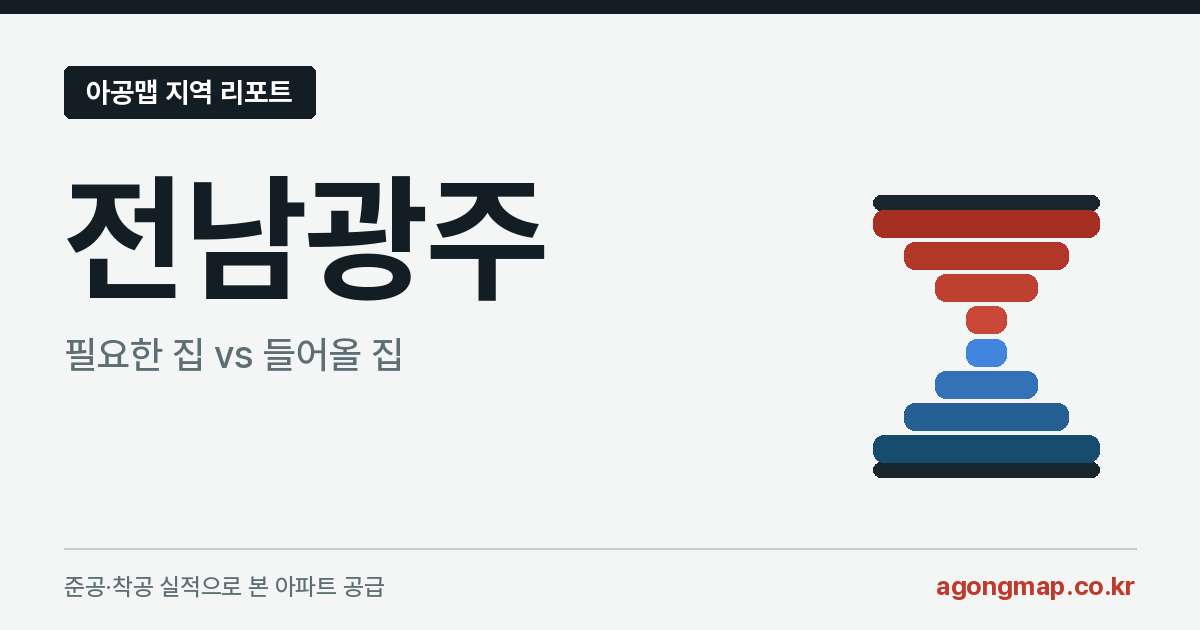
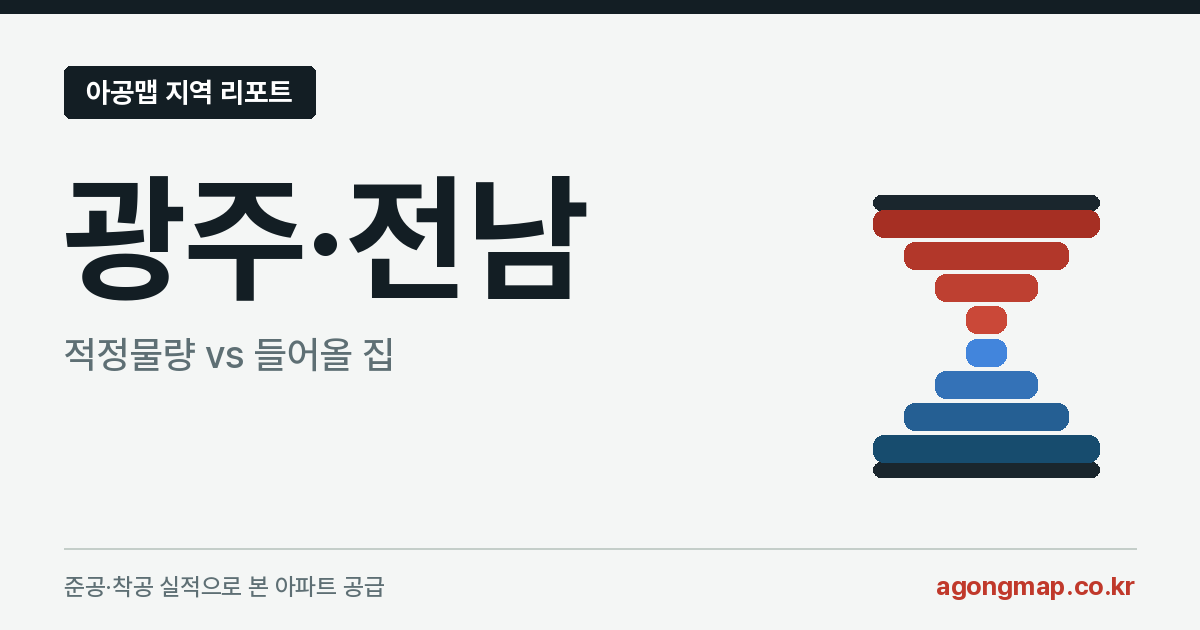
지역 공유 카드가 키 '전남광주'와 옛 이름 '필요한 집'을 그리던 것 — 그리는 이름은 SZ.disp, 부제는 '적정물량', 19장 다시 굽고 og:image 에 카드 판(?v=) (전수리뷰 Z1-5·P-2)
make_zone_cards 가 zone/ 디렉터리 이름(키)을 그대로 그려 /zone/전남광주/ 미리보기가 제목과 다른 '전남광주' 카드였고, 19장 공통 부제가
10-06 에 버린 '필요한 집 vs 들어올 집'이었다. 그리는 이름만 label()=SZ.disp 로 바꾸고 파일 이름(zone-<키>.png)은 그대로 둔다.
부제는 '적정물량 vs 들어올 집'. 그린 이름·부제를 PNG 글 칸(label·sub)에 실어 시험이 커밋된 카드를 도구와 대조한다.
리포트 og:image 는 카드 내용 해시를 ?v= 로 붙여, 카카오톡·네이버가 주소 단위로 보관한 옛 미리보기를 새 카드로 바꾼다.
부제가 모든 카드에 있어 19장 모두 다시 구웠다(같은 도구로 두 번 구우면 바이트가 같다 — 결정론 확인). HEAD 도구로도 08-08 의 18장은
픽셀이 조금 달랐고(옛 렌더러) 09-23 의 전남광주 한 장만 바이트가 같았다.

변이 확인:
- make() 가 label(name) 대신 키를 그리면 test_card_draws_the_display_name_and_the_canon_subtitle 이 빨개진다.
- SUB 를 옛 '필요한 집 vs 들어올 집'으로 되돌리면 그 시험·test_committed_cards_match_the_tool·test_generators_write_the_canon_terms 가 빨개진다.
- 옛 share/zone-전남광주.png(글 칸 없음)를 되돌려 놓으면 test_committed_cards_match_the_tool 이 빨개진다.
- zone_card 가 ?v= 를 빼면 test_report_og_image_carries_the_card_version 이 빨개진다.

Claude-Session: https://claude.ai/code/session_01Cnk2ohfzHBhdN4H67VPrTj

Changed region(s): [[0.0617, 0.2714, 0.4933, 0.4825], [0.0308, 0.5127, 0.3392, 0.6032]]

diff --git a/tools/tests/test_zone_cards.py b/tools/tests/test_zone_cards.py
@@ -1,0 +1,77 @@
+# -*- coding: utf-8 -*-
+"""지역 공유 카드(share/zone-<키>.png, make_zone_cards — 사람이 돌리는 도구)는 화면 이름 정본과 정본 용어를 그린다(전수리뷰 Z1-5·P-2).
+
+재현한 실제 상태(2026-10-18): 도구가 zone/ 디렉터리 이름(판정 단위 키)을 그대로 그려, /zone/전남광주/ 의 공유 미리보기(og:image)가
+제목('광주·전남')과 다른 '전남광주' 카드였다. 19장 공통 부제는 10-06 에 버린 이름 '필요한 집 vs 들어올 집'이었다. 도구를 다시 돌려도 같은
+카드가 나왔고, test_display_name 은 HTML 글자만 보아 그림을 잡지 못했다. og:image 주소에 판(?v=)이 없어 다시 구운 카드도 카카오톡·
+네이버가 보관한 옛 미리보기에 닿지 않았다.
+"""
+import hashlib
+import io
+import glob
+import os
+import re
+import sys
+import urllib.parse
+
+from PIL import Image, ImageDraw
+
+sys.path.insert(0, os.path.join(os.path.dirname(os.path.abspath(__file__)), '..'))
+import make_sido_pages as P  # noqa: E402
+import make_zone_cards as ZC  # noqa: E402
+import sido_zones as SZ  # noqa: E402
+
+ROOT = os.path.normpath(os.path.join(os.path.dirname(os.path.abspath(__file__)), '..', '..'))
+
+
+def test_card_draws_the_display_name_and_the_canon_subtitle(tmp_path, monkeypatch):
+    """도구가 그리는 글자: 큰 이름은 SZ.disp(키), 부제는 정본 용어('적정물량'). 파일 이름은 키 그대로(og:image 가 키로 찾는다).
+    변이(실제로 확인): make() 가 label(name) 대신 name(키)을 그리게 되돌리면, SUB 를 옛 '필요한 집 vs 들어올 집'으로 되돌리면 빨개진다.
+    픽스처: DISPLAY_NAME 의 키마다(지금 '전남광주') 임시 폴더에 한 장씩 굽고 ImageDraw.text 를 가로채 그린 글자를 모은다. 이름이 키와
+    같은 지역(서울)도 한 장 — 바뀌지 않는 갈래."""
+    drawn = []
+    real = ImageDraw.ImageDraw.text
+
+    def spy(self, xy, text, *a, **kw):
+        drawn.append(text)
+        return real(self, xy, text, *a, **kw)
+    monkeypatch.setattr(ImageDraw.ImageDraw, 'text', spy)
+    monkeypatch.setattr(ZC, 'OUT_DIR', str(tmp_path))
+    keys = sorted(SZ.DISPLAY_NAME) + ['서울']
+    assert SZ.DISPLAY_NAME and SZ.disp('서울') == '서울'
+    for k in keys:
+        drawn.clear()
+        out = ZC.make(k)
+        assert os.path.basename(out) == 'zone-%s.png' % k
+        assert SZ.disp(k) in drawn and ZC.SUB in drawn, (k, drawn)
+        if SZ.disp(k) != k:
+            assert not any(k in t for t in drawn), (k, drawn)
+    assert '적정물량' in ZC.SUB and not any(t in ZC.SUB for t in ('필요', '수요', '과잉'))
+
+
+def test_committed_cards_match_the_tool():
+    """저장소에 커밋된 카드가 지금 도구의 글자로 구운 것이다 — 카드는 배치가 굽지 않아(사람이 돌린다), 도구만 고치고 다시 돌리지 않으면
+    옛 카드가 그대로 퍼진다. 도구가 PNG 글 칸에 싣는 label·sub 를 읽어 SZ.disp(키)·ZC.SUB 와 대조하고, 판정 단위마다 한 장씩 있는지 본다.
+    변이(실제로 확인): 옛 도구로 구운 share/zone-전남광주.png(글 칸 없음·'전남광주')를 되돌려 놓으면, SUB 만 바꾸고 카드를 다시 굽지 않으면
+    빨개진다. 지역 구성이 바뀌어(판정 단위 키) 카드가 모자라도 빨개진다 — 그때는 make_zone_cards 를 다시 돌린다.
+    픽스처: 저장소 share/zone-*.png(19장)."""
+    cards = {os.path.basename(p)[len('zone-'):-len('.png')]: p for p in glob.glob(os.path.join(ROOT, 'share', 'zone-*.png'))}
+    assert set(cards) == set(SZ.ORDER), sorted(set(cards) ^ set(SZ.ORDER))
+    for k, p in sorted(cards.items()):
+        t = Image.open(p).text
+        assert (t.get('label'), t.get('sub')) == (SZ.disp(k), ZC.SUB), (k, t)
+
+
+def test_report_og_image_carries_the_card_version():
+    """리포트 og:image 는 그 지역 카드 주소에 카드 내용 해시(?v=8자리)를 붙인다 — 다시 구운 카드가 보관된 미리보기를 대신하게. 카드가 없는
+    자리(허브 '시도별 공급')는 브랜드 카드.
+    변이(실제로 확인): zone_card 가 ?v= 를 빼면 빨개진다.
+    픽스처: 저장소 share/zone-<키>.png 와 head() 가 구운 머리."""
+    for z in sorted(SZ.DISPLAY_NAME) + ['서울']:
+        with open(os.path.join(ROOT, 'share', 'zone-%s.png' % z), 'rb') as f:
+            v = hashlib.sha1(f.read()).hexdigest()[:8]
+        want = '%s/share/zone-%s.png?v=%s' % (P.SITE, urllib.parse.quote(z), v)
+        h = P.head(z, 'd', 't')
+        assert re.search(r'<meta property="og:image" content="([^"]*)">', h).group(1) == want, z
+    hub = P.head('시도별 공급', 'd', 't', url=P.SITE + '/zone/', crumb=False, desk='read')
+    assert re.search(r'<meta property="og:image" content="([^"]*)">', hub).group(1) == P.SITE + '/og-brand.png'

diff --git a/tools/make_zone_cards.py b/tools/make_zone_cards.py
@@ -27,9 +27,10 @@
 import os
 import sys
 
-from PIL import Image, ImageDraw, ImageFont
+from PIL import Image, ImageDraw, ImageFont, PngImagePlugin
 
 sys.path.insert(0, os.path.dirname(os.path.abspath(__file__)))
+import sido_zones as SZ  # noqa: E402  화면 이름 정본(DISPLAY_NAME) — 그리는 글자만 바꾸고 파일 이름은 키 그대로
 
 W, H = 1200, 630
 
@@ -51,7 +52,7 @@ OUT_DIR = os.path.join(ROOT, 'share')
 
 # 칩은 '시도'라고 못 박지 않는다 — 목록에 전국·수도권·지방 같은 집계도 섞여 있다.
 CHIP = '아공맵 지역 리포트'
-SUB = '필요한 집 vs 들어올 집'
+SUB = '적정물량 vs 들어올 집'   # 기준 물량은 '적정물량' 한 이름(2026-10-06 대표 결정 — 옛 '필요한 집', 전수리뷰 Z1-5)
 # 2026-08-06 재편 반영: 미래 공급을 인허가가 아니라 착공 실적으로 센다.
 FOOT = '준공·착공 실적으로 본 아파트 공급'
 
@@ -74,6 +75,12 @@ def fit_width(text, target, weight='Bold', hi=140, lo=40):
         else:
             hi = mid - 1
     return font(best, weight)
+
+
+def label(name):
+    """카드에 그리는 지역 이름 — 화면 이름 정본 SZ.disp('전남광주' → '광주·전남', 백로그 46·전수리뷰 Z1-5·P-2). 파일 이름
+    share/zone-<키>.png 는 make_sido_pages 가 og:image 로 키를 찾으므로 그대로 둔다."""
+    return SZ.disp(name)
 
 
 def zone_names():
@@ -125,11 +132,12 @@ def make(name):
     d.text((MX + px - cbb[0], 66 + py - cbb[1]), CHIP, font=cf, fill=WHITE)
 
     # 지역명 — 아이콘 왼쪽까지만 쓰고, 그 폭에 맞춰 크기를 잡는다.
+    shown = label(name)
     tw = max(320, icon_left - 40 - MX)
-    hf = fit_width(name, tw, hi=140)
-    hbb = d.textbbox((0, 0), name, font=hf)
+    hf = fit_width(shown, tw, hi=140)
+    hbb = d.textbbox((0, 0), shown, font=hf)
     y1 = 176
-    d.text((MX - hbb[0], y1 - hbb[1]), name, font=hf, fill=INK)
+    d.text((MX - hbb[0], y1 - hbb[1]), shown, font=hf, fill=INK)
     name_bottom = y1 + (hbb[3] - hbb[1])
 
     # 부제
@@ -146,7 +154,11 @@ def make(name):
     d.text((W - MX - (dbb[2] - dbb[0]), fy + 22), dom, font=df, fill=RED)
 
     out = os.path.join(OUT_DIR, 'zone-%s.png' % name)
-    img.convert('RGB').save(out, 'PNG', optimize=True)
+    # 그린 이름·부제를 PNG 글 칸에 함께 싣는다 — 시험(test_zone_cards)이 커밋된 카드가 지금 도구의 글자와 같은지 읽는다(그림은 못 읽는다)
+    meta = PngImagePlugin.PngInfo()
+    meta.add_text('label', shown)
+    meta.add_text('sub', SUB)
+    img.convert('RGB').save(out, 'PNG', optimize=True, pnginfo=meta)
     return out
 
 

diff --git a/tools/tests/test_term_canon_pages.py b/tools/tests/test_term_canon_pages.py
@@ -8,8 +8,8 @@
 퀴즈 랜딩 3종 '16개 시도의 부족·과잉을 등급으로', FAQ 검색용 JSON-LD '적정 물량과 비교해 공급 과잉·부족'(화면 답은 '적정물량과 견줘'),
 소개 '적정 물량과 견줘보고'. 36-2 용어 통일 뒤에도 막는 시험이 없어 남아 있었다.
 
-범위: 이 시험이 보는 것은 손 페이지(소개·FAQ·퀴즈 랜딩 3종)와 시도 리포트·지표 두 쪽의 생성 결과, 그 생성기들의 문자열(독스트링·주석
-제외 — 옛 이름의 이력을 적는 자리다). 홈 표 보기 범례(index.html .tb-key — 대표 결정 2026-10-18 D4 로 따로 고친다)와 /weekly/ '더 둘러보기'
+범위: 이 시험이 보는 것은 손 페이지(소개·FAQ·퀴즈 랜딩 3종)와 시도 리포트·지표 두 쪽의 생성 결과, 그 생성기들과 지역 카드 도구
+(make_zone_cards — 그림 글자는 test_zone_cards 가 본다)의 문자열(독스트링·주석 제외 — 옛 이름의 이력을 적는 자리다). 홈 표 보기 범례(index.html .tb-key — 대표 결정 2026-10-18 D4 로 따로 고친다)와 /weekly/ '더 둘러보기'
 (생성기가 맡게 바꾸는 별건)는 그 수정과 함께 이 목록에 더한다.
 변이(실제로 확인): make_indicator_pages 의 /jeonse-ratio/ 링크를 '부족·과잉 등급으로'로 되돌리면 생성기 단정이, faq JSON-LD 를 옛 '적정 물량과
 비교해 공급 과잉·부족'으로 되돌리면 페이지 단정이 빨개진다.
@@ -25,7 +25,7 @@ ROOT = os.path.normpath(os.path.join(os.path.dirname(os.path.abspath(__file__)),
 FORBIDDEN = ('과잉', '적정선', '적정 물량', '적정수요', '필요한 집', '필요량', '수요 기준선')
 HAND = ('about/index.html', 'faq/index.html', 'burini-test/index.html', 'investor-test/index.html', 'redev-test/index.html')
 GENERATED = ('jeonse-ratio/index.html', 'moveins/index.html')
-GENERATORS = ('tools/make_indicator_pages.py', 'tools/make_sido_pages.py')
+GENERATORS = ('tools/make_indicator_pages.py', 'tools/make_sido_pages.py', 'tools/make_zone_cards.py')
 
 
 def _read(rel):

diff --git a/tools/make_sido_pages.py b/tools/make_sido_pages.py
@@ -507,12 +507,25 @@ if(localStorage.getItem('ga_off'))window['ga-disable-%(ga)s']=true;
        # 데스크톱 틀(desk.css): 리포트는 왼쪽 판정 요약·오른쪽 표, 허브는 글 단 그대로(site_nav.DESK_KINDS)
        'desk_link': N.desk_link(), 'desk_body': N.desk_body(desk),
        'title': esc(title), 'desc': esc(desc), 'url': u, 'site': SITE,
-       # 지역 카드(make_zone_cards.py 산출물). 없으면 브랜드 카드로 떨어진다 —
-       # 카드를 아직 안 구웠거나 지역이 새로 생긴 회차에도 미리보기가 깨지지 않게.
-       'ogimg': ((SITE + '/share/zone-' + urllib.parse.quote(z) + '.png')
-                 if os.path.exists(os.path.join(ROOT, 'share', 'zone-%s.png' % z))
-                 else SITE + '/og-brand.png'),
+       'ogimg': zone_card(z),
        'ld': json.dumps(ld, ensure_ascii=False)}
+
+
+def zone_card(z):
+    """지역 카드(make_zone_cards.py 산출물 — 사람이 돌린다)의 og:image 주소. 없으면 브랜드 카드로 떨어진다 — 카드를 아직 안 구웠거나
+    지역이 새로 생긴 회차에도 미리보기가 깨지지 않게.
+
+    주소에 카드 **내용 해시**를 ?v= 로 붙인다(전수리뷰 Z1-5 — /weekly/·/monthly/ 카드의 ?v= 와 같은 까닭). 카카오톡·네이버는 미리보기
+    그림을 주소 단위로 오래 보관해, 같은 주소에 다시 구운 카드(화면 이름 '광주·전남'·정본 용어 '적정물량')가 이미 퍼진 미리보기에
+    닿지 않았다. 카드가 바뀌면 리포트 HTML 도 바뀌어 dateModified·sitemap lastmod 가 따라온다(keep_dates). GitHub Pages 는 쿼리를 무시한다.
+    """
+    p = os.path.join(ROOT, 'share', 'zone-%s.png' % z)
+    if not os.path.exists(p):
+        return SITE + '/og-brand.png'
+    import hashlib
+    with open(p, 'rb') as f:
+        v = hashlib.sha1(f.read()).hexdigest()[:8]
+    return SITE + '/share/zone-' + urllib.parse.quote(z) + '.png?v=' + v
 
 
 def share_section(z):
